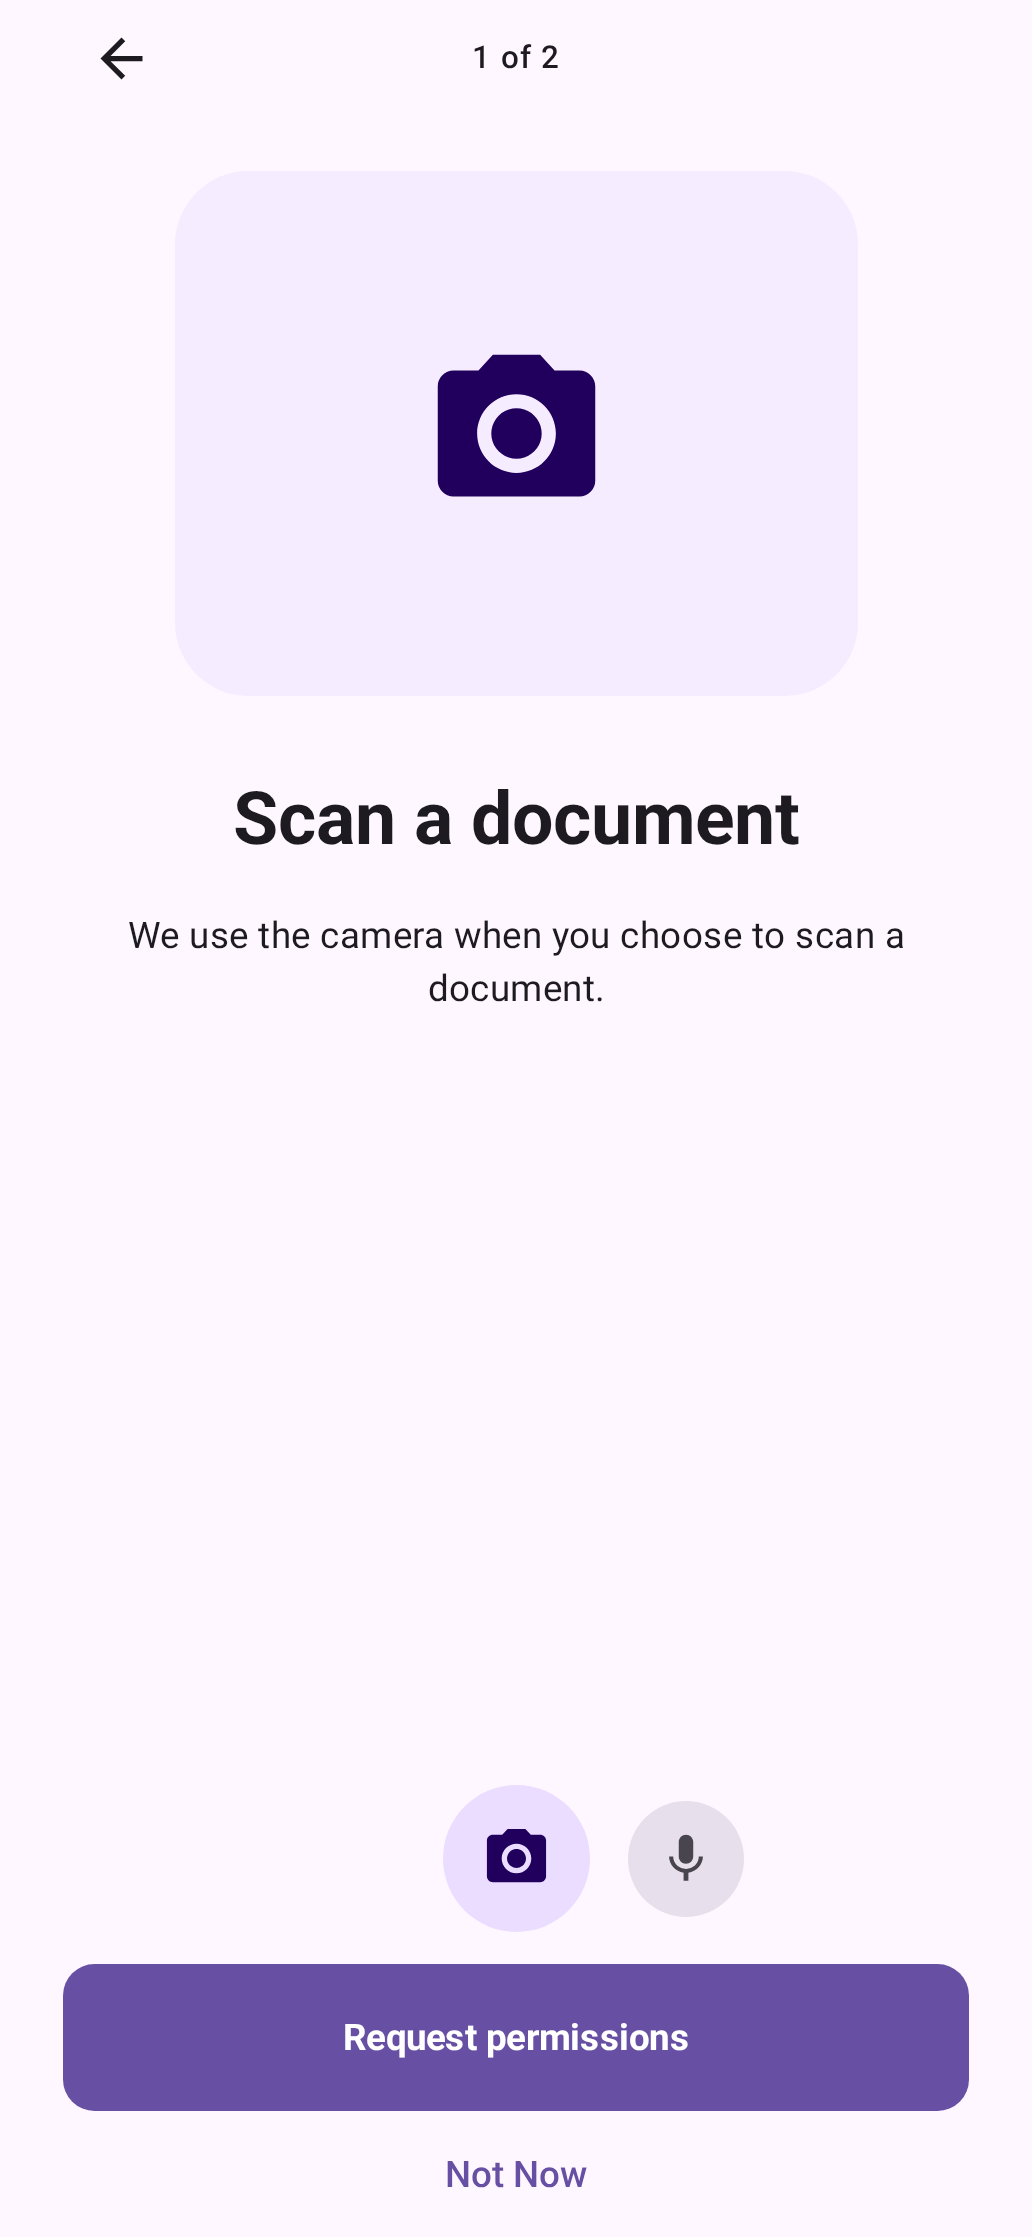
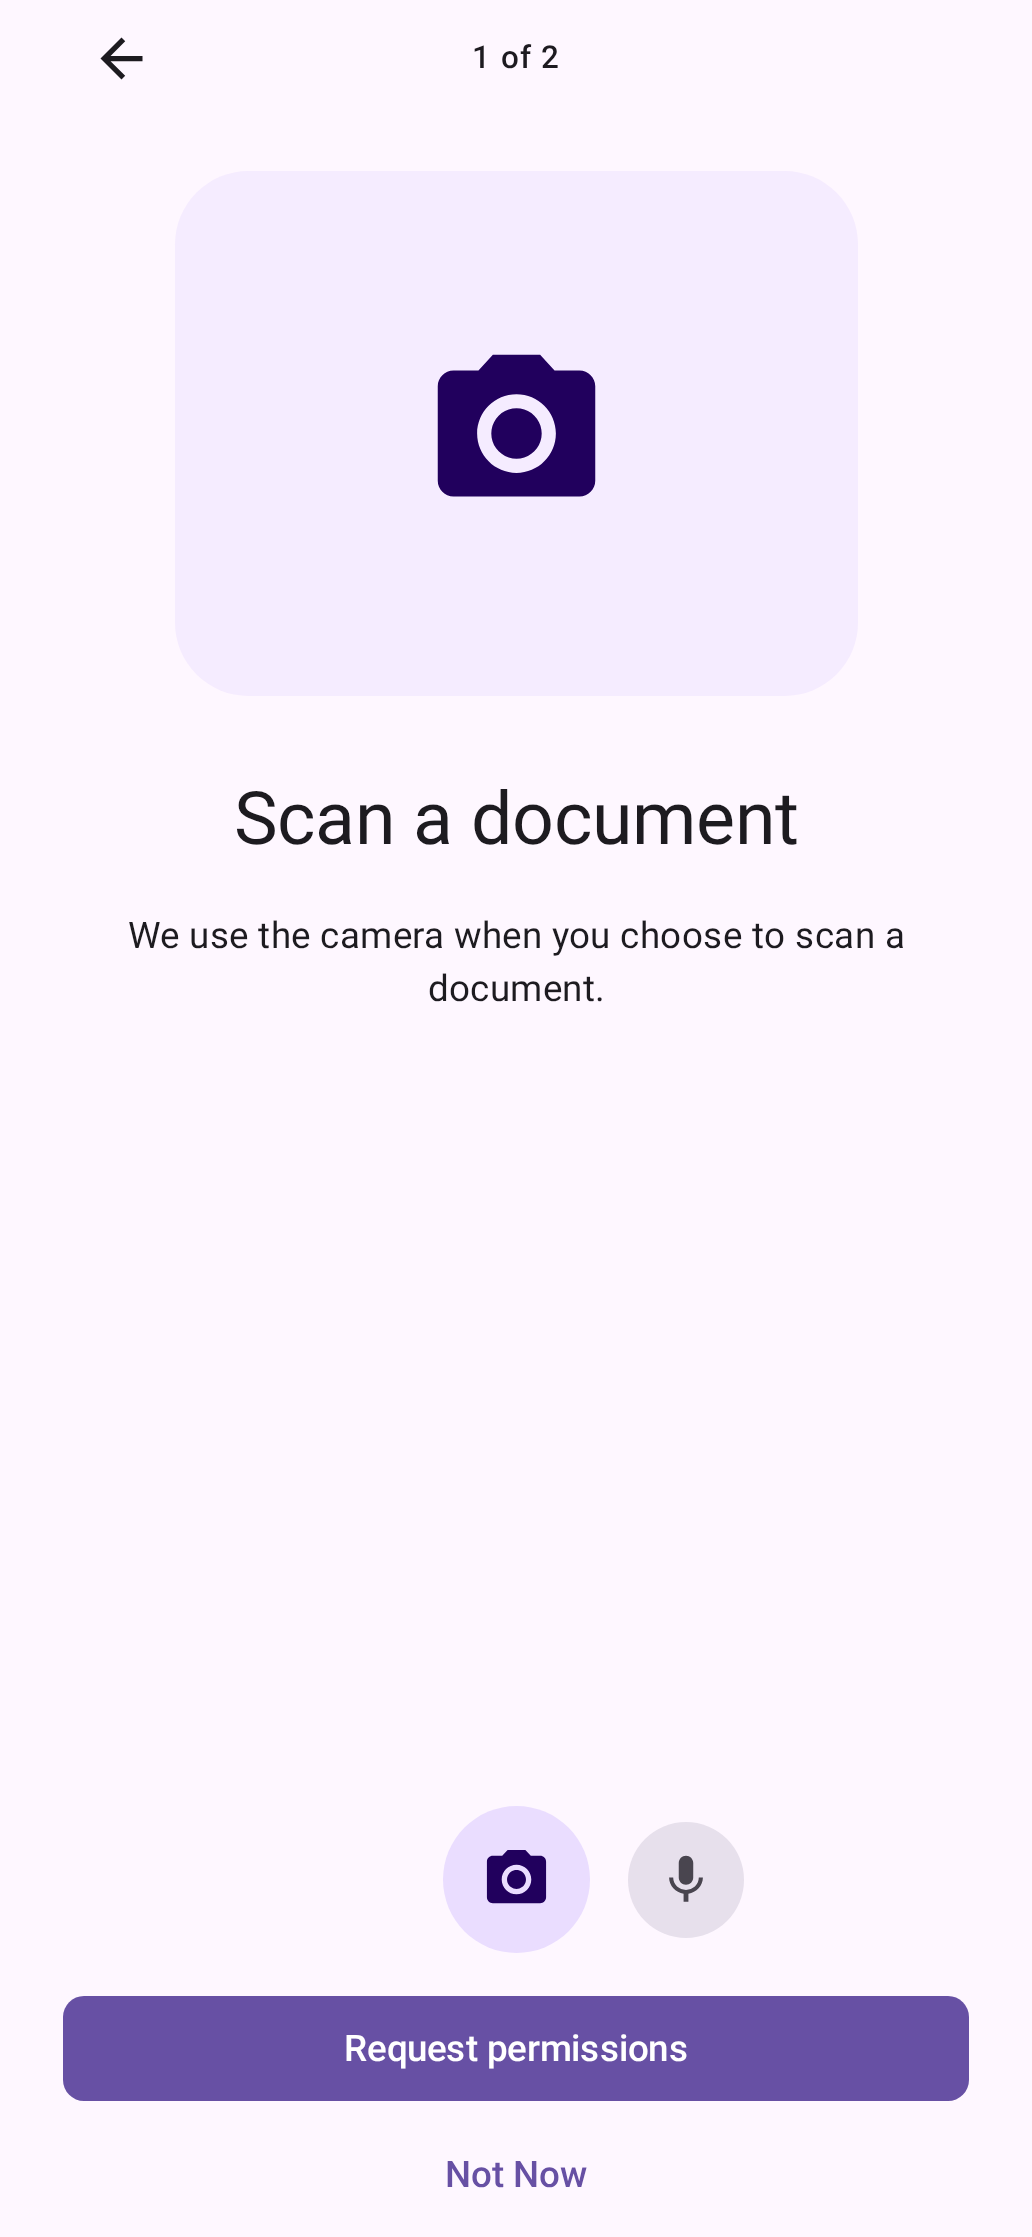
Inherit host Material appearance and complete permission UI languages (#27)
* Use host Material shapes for actions and surfaces

* Inherit host typography and control sizing; complete permission UI translations

* Accept reviewed host-themed permission screenshots with matching CI provenance

* Run required library and demo Android lint during screenshot verification

diff --git a/permission/src/main/java/com/apexfission/android/permission/ui/PermissionBundleScreen.kt b/permission/src/main/java/com/apexfission/android/permission/ui/PermissionBundleScreen.kt
@@ -32,7 +32,6 @@ import androidx.compose.foundation.pager.HorizontalPager
 import androidx.compose.foundation.pager.rememberPagerState
 import androidx.compose.foundation.rememberScrollState
 import androidx.compose.foundation.shape.CircleShape
-import androidx.compose.foundation.shape.RoundedCornerShape
 import androidx.compose.foundation.verticalScroll
 import androidx.compose.material.icons.Icons
 import androidx.compose.material.icons.automirrored.filled.ArrowBack
@@ -62,7 +61,6 @@ import androidx.compose.ui.Alignment
 import androidx.compose.ui.Modifier
 import androidx.compose.ui.geometry.CornerRadius
 import androidx.compose.ui.geometry.Size
-import androidx.compose.ui.graphics.Color
 import androidx.compose.ui.graphics.asImageBitmap
 import androidx.compose.ui.graphics.graphicsLayer
 import androidx.compose.ui.graphics.painter.BitmapPainter
@@ -82,7 +80,6 @@ import androidx.compose.ui.semantics.clearAndSetSemantics
 import androidx.compose.ui.semantics.contentDescription
 import androidx.compose.ui.semantics.progressBarRangeInfo
 import androidx.compose.ui.semantics.semantics
-import androidx.compose.ui.text.font.FontWeight
 import androidx.compose.ui.text.style.TextAlign
 import androidx.compose.ui.unit.dp
 import androidx.lifecycle.Lifecycle
@@ -133,7 +130,6 @@ fun DefaultDescription(
     Text(
         title ?: stringResource(R.string.permission_generic_title, label),
         style = MaterialTheme.typography.headlineMedium,
-        fontWeight = FontWeight.Bold,
         textAlign = TextAlign.Center,
     )
     Spacer(Modifier.height(16.dp))
@@ -152,7 +148,7 @@ fun DefaultDescription(
             ) {
                 Icon(icon ?: feature.icon, contentDescription = null, tint = MaterialTheme.colorScheme.primary)
                 Column(Modifier.padding(start = 12.dp)) {
-                    Text(feature.title, fontWeight = FontWeight.SemiBold)
+                    Text(feature.title, style = MaterialTheme.typography.titleSmall)
                     Text(feature.subtitle, style = MaterialTheme.typography.bodySmall)
                 }
             }
@@ -486,7 +482,6 @@ fun PermissionBundleScreen(
                         Text(
                             stringResource(R.string.permission_bundle_granted),
                             color = MaterialTheme.colorScheme.primary,
-                            fontWeight = FontWeight.SemiBold
                         )
                     }
                     if (item != null && !item.required) {
@@ -526,9 +521,8 @@ fun PermissionBundleScreen(
                 },
                 modifier = Modifier
                     .fillMaxWidth()
-                    .padding(horizontal = 24.dp)
-                    .height(56.dp),
-                shape = RoundedCornerShape(12.dp),
+                    .padding(horizontal = 24.dp),
+                shape = MaterialTheme.shapes.small,
             ) {
                 Text(
                     when (action) {
@@ -540,13 +534,13 @@ fun PermissionBundleScreen(
                         BundleAction.Settings -> settingsActionLabel ?: stringResource(R.string.permission_open_settings)
                         BundleAction.Complete -> stringResource(R.string.permission_done)
                     },
-                    fontWeight = FontWeight.Bold,
                 )
             }
             TextButton(
                 onClick = { stopAutoAdvance(); onNotNow() }, modifier = Modifier
                     .fillMaxWidth()
-                    .padding(horizontal = 24.dp)
+                    .padding(horizontal = 24.dp),
+                shape = MaterialTheme.shapes.small,
             ) {
                 Text(stringResource(R.string.permission_not_now))
             }
@@ -650,7 +644,7 @@ private fun PermissionIconStrip(
                             contentAlignment = Alignment.Center,
                         ) {
                             Icon(
-                                Icons.Default.Check, contentDescription = null, modifier = Modifier.size(16.dp), tint = Color(0xFF16803A)
+                                Icons.Default.Check, contentDescription = null, modifier = Modifier.size(16.dp), tint = MaterialTheme.colorScheme.primary
                             )
                         }
                     }
@@ -666,7 +660,7 @@ private fun DefaultHeroFrame(content: @Composable () -> Unit) {
     Box(
         modifier = Modifier
             .size(width = 260.dp, height = 200.dp)
-            .background(MaterialTheme.colorScheme.primaryContainer.copy(alpha = 0.45f), RoundedCornerShape(28.dp)),
+            .background(MaterialTheme.colorScheme.primaryContainer.copy(alpha = 0.45f), MaterialTheme.shapes.extraLarge),
         contentAlignment = Alignment.Center,
     ) {
         content()

diff --git a/scripts/tests/test_permission_localization.py b/scripts/tests/test_permission_localization.py
@@ -1,0 +1,36 @@
+import pathlib
+import re
+import unittest
+import xml.etree.ElementTree as ET
+
+ROOT = pathlib.Path(__file__).resolve().parents[2]
+RES = ROOT / "permission/src/main/res"
+LOCALES = ("de", "es", "fr", "it", "ja", "ko", "pl", "pt", "ru", "uk", "zh-rCN", "zh-rTW")
+
+
+def strings(path):
+    nodes = ET.parse(path).getroot().findall("string")
+    names = [node.attrib["name"] for node in nodes]
+    if len(names) != len(set(names)):
+        raise AssertionError(f"Duplicate keys: {path}")
+    return {node.attrib["name"]: "".join(node.itertext()) for node in nodes}
+
+
+class PermissionLocalizationTest(unittest.TestCase):
+    def test_all_languages_match_english_keys_and_placeholders(self):
+        english = strings(RES / "values/strings.xml")
+        for locale in LOCALES:
+            with self.subTest(locale=locale):
+                translated = strings(RES / f"values-{locale}/strings.xml")
+                self.assertEqual(set(english), set(translated))
+                for key, value in translated.items():
+                    self.assertTrue(value.strip(), key)
+                    self.assertEqual(
+                        sorted(re.findall(r"%\\d+\\$[ds]", english[key])),
+                        sorted(re.findall(r"%\\d+\\$[ds]", value)),
+                        key,
+                    )
+
+
+if __name__ == "__main__":
+    unittest.main()

diff --git a/docs/screenshots/README.md b/docs/screenshots/README.md
@@ -1,6 +1,6 @@
 # README screenshots
 
-The seven accepted PNGs were rendered by the [screenshot workflow](https://github.com/lambdawalker/android.apexfission.permissions/actions/runs/40774456236) at commit `a3638a937244d05b13cdb0810360ac8037530544`, downloaded from its `permission-screen-images` artifact (`12854851431`), visually reviewed, and accepted with `screenshots:update`. The capture input hash matches the current library, fixture, and toolchain inputs. The manifest records the original capture environment and workflow provenance. No images were manually composed or edited.
[1 lines of base64/hex data omitted]
 
 | File | `PermissionBundleScreenshotTest` preview |
 | --- | --- |
@@ -12,7 +12,7 @@ The seven accepted PNGs were rendered by the [screenshot workflow](https://githu
 | `overflowing-icons.png` | `overflowOverview` |
 | `segmented-reading-progress.png` | `autoplayReadingProgress` |
 
-These captures include the layout spacing change from `77233fd`. `single-permission-overview.png` correctly maps to `singlePermissionOverview` (two pages, including the overview). A no-overview single permission is a separate scenario; do not replace or relabel the overview image to represent it.
+These captures include host Material shapes, typography and standard action sizing. `single-permission-overview.png` correctly maps to `singlePermissionOverview` (two pages, including the overview). A no-overview single permission is a separate scenario; do not replace or relabel the overview image to represent it.
 
 Use the automated commands below to refresh images after UI changes. Static previews do not capture Android system prompts.
 

diff --git a/docs/agents/compose.md b/docs/agents/compose.md
@@ -55,6 +55,12 @@ The trailing `PermissionDescription { ... }` lambda is the **required entire pag
 
 The `DefaultPermissionPage` hero is independent of the icon strip. Use `heroImage = Icons.Default.PhotoCamera` for a vector, `heroImage = R.drawable.scan_hero` for a raster or vector drawable resource, or pass an Android `Bitmap` or `Drawable` instance. Bitmap and drawable artwork fits inside the hero frame; preserve an owned bitmap until the page leaves composition. `PermissionDescription.icon` still controls the small icon in the strip. See [all overloads](api.md#ui-pages-and-carousel).
 
+## Host appearance and languages
+
+Wrap the gate in the host’s `MaterialTheme`. Built-in text uses its typography, colors come from its color scheme, both action buttons use `shapes.small`, and hero surfaces use `shapes.extraLarge`. Material controls retain their standard minimum sizing and touch targets; layout spacing, artwork sizes, circular status badges and the reading indicator are component geometry. MaterialTheme does not define a spacing or dimensions scale.
+
+Built-in navigation, action, overview and recovery strings follow the device locale in English, German, Spanish, French, Italian, Japanese, Korean, Polish, Portuguese, Russian, Ukrainian, Simplified Chinese and Traditional Chinese. `PermissionVisualDefaults` remains a non-composable English metadata registry; pass a localized `PermissionDescription.label` and localized page content from your host resources.
+
 ## Choose a page layout
 
 | Use | Page content |
